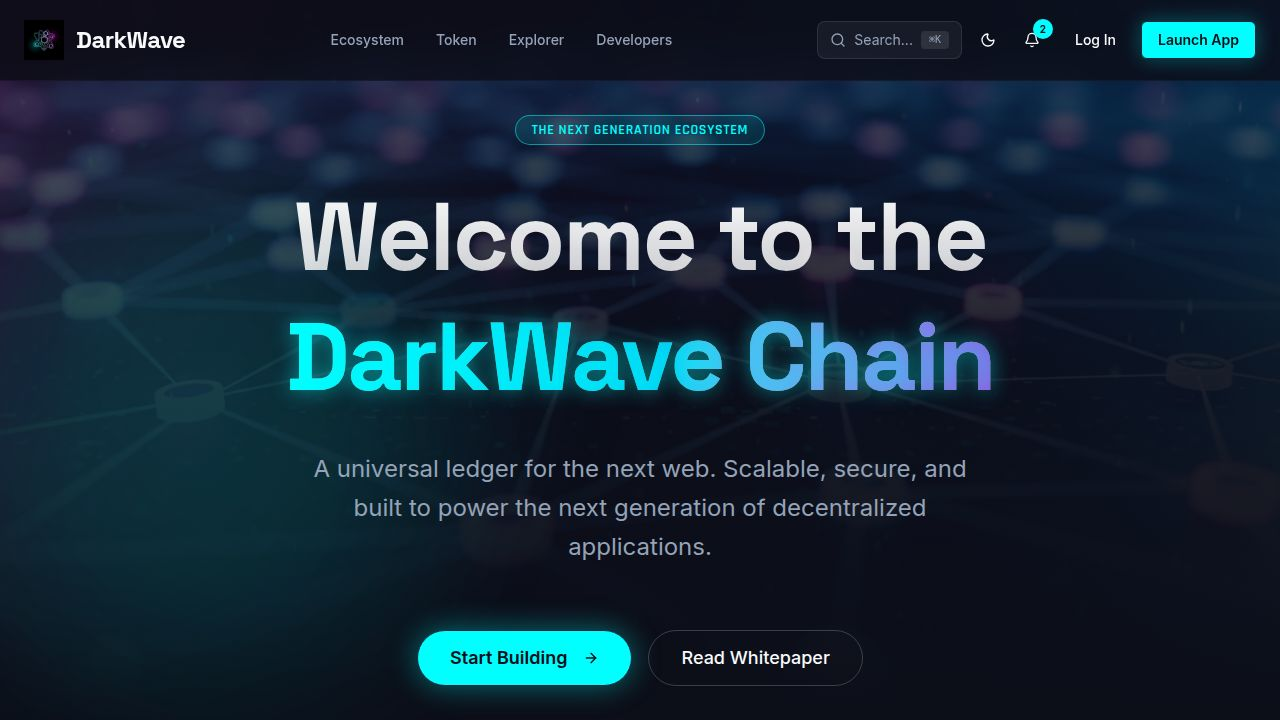
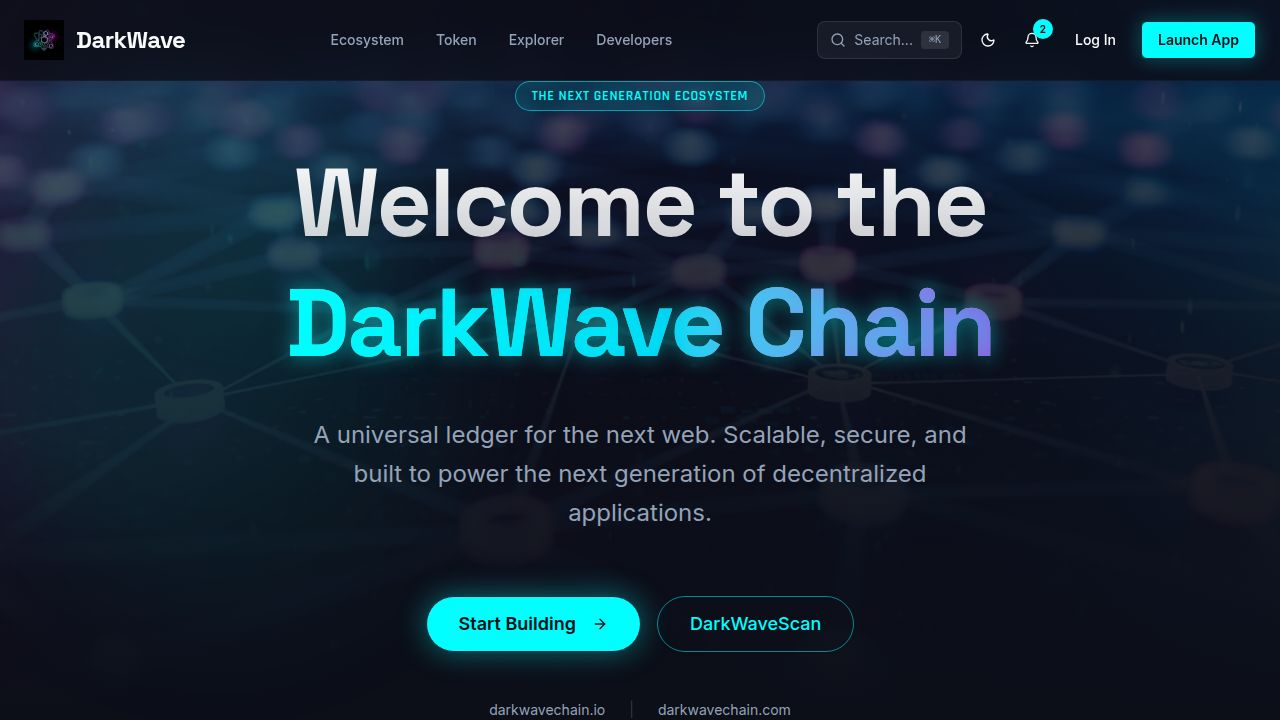
Add DarkWaveScan button and new domain links to the home page
Update home page hero section to include a button linking to the DarkWaveScan explorer and display the new darkwavechain.io and .com domain links.

Replit-Commit-Author: Agent
Replit-Commit-Session-Id: 16a6f2f7-7738-4dac-9053-f64ac42f4251
Replit-Commit-Checkpoint-Type: full_checkpoint
Replit-Commit-Event-Id: 43939746-6edc-4119-815a-f894e785567b
Replit-Commit-Screenshot-Url: https://storage.googleapis.com/screenshot-production-us-central1/605f8aff-5e91-4581-9509-5e471a311930/16a6f2f7-7738-4dac-9053-f64ac42f4251/10ODI9R
Replit-Helium-Checkpoint-Created: true

Changed region(s): [[0.2188, 0.2139, 0.7812, 1.0], [0.4062, 0.0917, 0.5938, 0.2139], [0.5, 0.9778, 0.625, 1.0]]

diff --git a/client/src/pages/home.tsx b/client/src/pages/home.tsx
@@ -109,11 +109,17 @@ export default function Home() {
                   Start Building <ArrowRight className="ml-2 w-5 h-5" />
                 </Button>
               </Link>
-              <Link href="/whitepaper">
-                <Button size="lg" variant="outline" className="h-14 px-8 text-lg border-white/20 hover:bg-white/5 rounded-full transition-all hover:border-white/40" data-testid="button-whitepaper">
-                  Read Whitepaper
+              <Link href="/explorer">
+                <Button size="lg" variant="outline" className="h-14 px-8 text-lg border-primary/50 text-primary hover:bg-primary/10 rounded-full transition-all hover:border-primary" data-testid="button-explore-chain">
+                  DarkWaveScan
                 </Button>
               </Link>
+            </div>
+
+            <div className="flex items-center justify-center gap-6 pt-4 text-sm text-muted-foreground">
+              <a href="https://darkwavechain.io" target="_blank" rel="noopener noreferrer" className="hover:text-primary transition-colors">darkwavechain.io</a>
+              <span className="text-white/20">|</span>
+              <a href="https://darkwavechain.com" target="_blank" rel="noopener noreferrer" className="hover:text-primary transition-colors">darkwavechain.com</a>
             </div>
           </motion.div>
         </div>

diff --git a/replit.md b/replit.md
@@ -14,6 +14,10 @@ The project goal is to build a blockchain that is faster, more stable, and featu
 Preferred communication style: Simple, everyday language.
 User wants: Full blockchain implementation, not just a web portal. No piggybacking on other chains.
 
+## Domains
+- darkwavechain.io
+- darkwavechain.com
+
 ## Blockchain Architecture (`blockchain/`)
 
 ### Core Components
